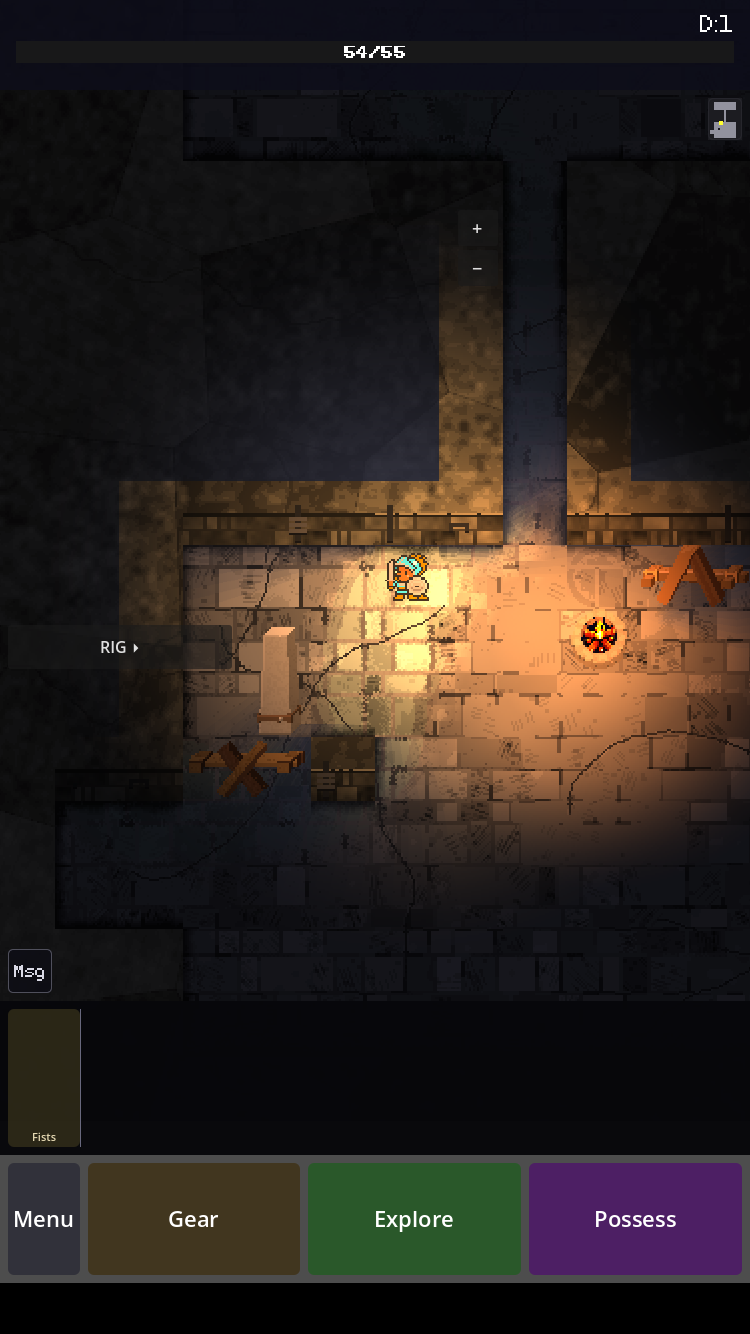
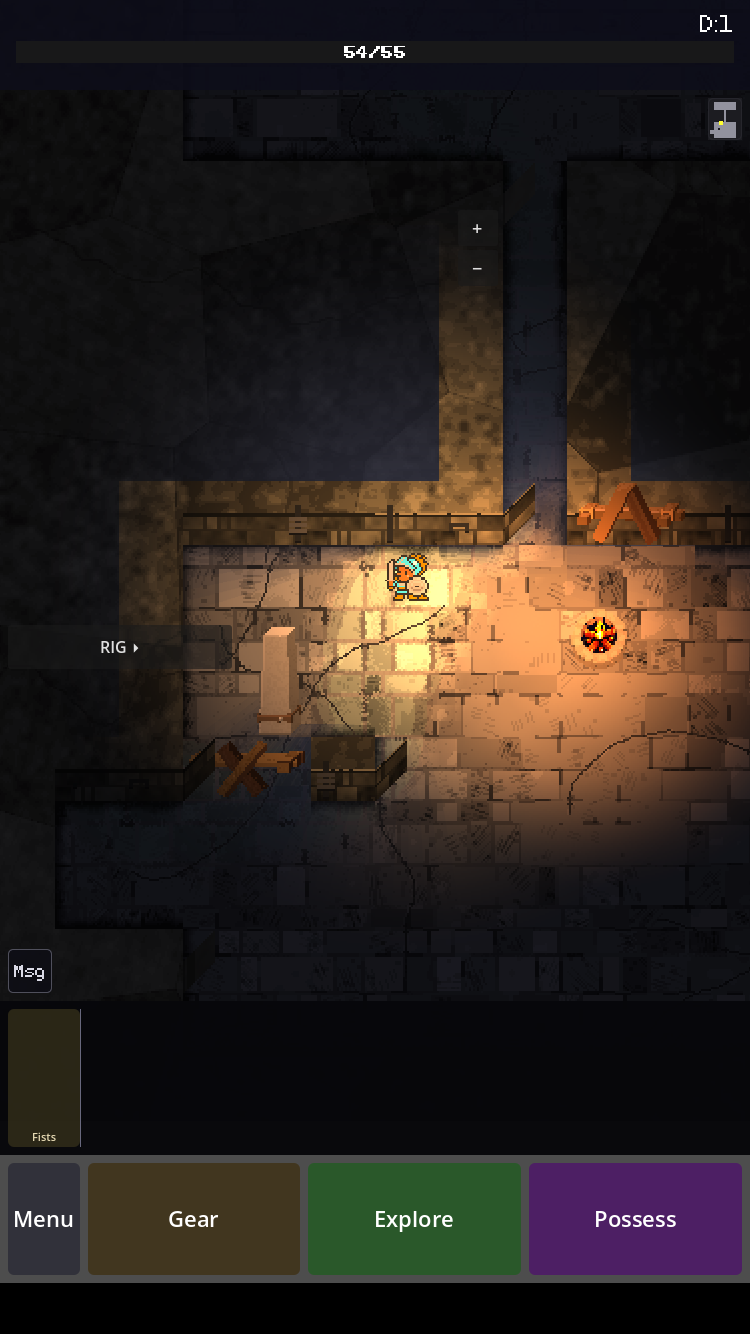
art(#211): wall ends, corners and pillars gain the east face at ½ depth — §3.2 on the walls' ends
A wall cell with floor to its east that is not a N-S run draws the cabinet parallelogram off
its reveal's right edge (16 right, 16 up on a 32 cell), sampled column by column from its own
face so the courses recede, at 0.75 with a 1px arris seam. Sorted at +5 — at +1 the east floor
cell's overlay children hid it. Runs stay two-plane. 5 in the props room; the corridor mouth's
jamb and the pillar are the two anyone will see.

Claude-Session: https://claude.ai/code/session_01YQxwYgREJS6hS4uVev2K1W

Changed region(s): [[0.6747, 0.3381, 1.0, 0.4918], [0.4907, 0.5532, 0.552, 0.6147], [0.2453, 0.5532, 0.3067, 0.584]]

diff --git a/src/Presentation/Map/Tier1BoundaryWall.cs b/src/Presentation/Map/Tier1BoundaryWall.cs
@@ -191,6 +191,7 @@ public static class Tier1BoundaryWall
     private const string BindNode = "Tier1Binding";
     private const string FaceNode = "Tier1Face";
     private const string CapBandNode = "Tier1CapBand";   // #212: the cap re-laid over an against-wall prop
+    private const string EastFaceNode = "Tier1EastFace"; // #211: the wall end's east face (§3.2)
 
     /// <summary>
     /// Does this overlay child cover EXACTLY its parent cell, and nothing of the cell next door?
@@ -225,7 +226,7 @@ public static class Tier1BoundaryWall
     /// <summary>Drop any overlay this class put on a cell, so a re-lay never stacks two.</summary>
     private static void ClearOverlays(Sprite2D s)
     {
-        foreach (var n in new[] { FaceNode, BindNode, CapBandNode })
+        foreach (var n in new[] { FaceNode, BindNode, CapBandNode, EastFaceNode })
         {
             var old = s.GetNodeOrNull<Sprite2D>(n);
             if (old != null) { s.RemoveChild(old); old.QueueFree(); }
@@ -377,6 +378,7 @@ public static class Tier1BoundaryWall
         int face = 0, top = 0, voidCells = 0, missing = 0, faceSuppressed = 0;
         int firstSurface = 0, occludedMass = 0;   // the light-mask split, reported
         int capBands = 0;                          // #212: cap bands re-laid over against-wall props
+        int eastFaces = 0;                         // #211: east faces on wall ends, corners, pillars
         int bound = 0, capLaid = 0, capVoid = 0;
         var ageHist = new int[System.Math.Max(1, 8)];
         var ageMap = new Dictionary<(int X, int Y), int>();
@@ -654,6 +656,63 @@ public static class Tier1BoundaryWall
                     }
                 }
 
+                // ── #211: A WALL END, CORNER OR PILLAR GAINS THE EAST FACE AT ½ DEPTH (§3.2) ──
+                //
+                // RULED with the object projection (Rafe, 2026-09-12): continuous runs stay
+                // two-plane; where a wall ENDS it becomes an object in the room's terms and must
+                // agree with the objects beside it — a right/east face receding at 45° at ½ depth.
+                // The cell qualifies when floor lies to its EAST and it is not a north-south run
+                // (north and south both wall): the east end of an E-W run, a corner, a pillar,
+                // and the corridor mouth's jamb (the first wall end in every room — r002's seat
+                // asked for exactly this: "the wall face band is simply cut where the corridor
+                // passes through it").
+                //
+                // Geometry, in native px on a 32 cell whose face is the lower 16 rows: the block
+                // is one cell deep in plan, so the receding run is ½ x 32 = 16 right and 16 up.
+                // The parallelogram hangs off the reveal's right edge: (32,32)-(32,16)-(48,0)-(48,16)
+                // — its top-right corner meets the cap's back edge, its bottom-left the face's
+                // foot. Each output column samples one column of the cell's OWN face, so the
+                // courses recede diagonally rather than run flat — a side, not a stretched front.
+                // Value 0.75 of the face and a 1px seam at the arris: the side separates from the
+                // front by the seam where they meet (§12.1 form), the ratio matching the ½-depth
+                // sides the landed §3.2 props carry.
+                bool eastOpen = map.InBounds(x + 1, y) && !map.IsWallTile(x + 1, y);
+                bool nsRun = map.InBounds(x, y - 1) && map.IsWallTile(x, y - 1)
+                          && map.InBounds(x, y + 1) && map.IsWallTile(x, y + 1);
+                if (eastOpen && !nsRun && !isVoid && tex != null)
+                {
+                    var src = tex.GetImage();
+                    int tw = src.GetWidth(), th = src.GetHeight();
+                    int half = th / 2, run = tw / 2;
+                    var side = Image.CreateEmpty(run, th, false, Image.Format.Rgba8);
+                    for (int u = 0; u < run; u++)
+                    {
+                        for (int v = 0; v < th; v++)
+                        {
+                            int lo = half - u, hi = th - u;          // the strip slides up 1px per column
+                            if (v < lo || v >= hi) continue;
+                            int sy = half + (v - lo);                // the face's rows, top to bottom
+                            int sx = Mathf.Min(tw - 1, tw - run + u);// the face's right half, one column each
+                            var c = src.GetPixel(sx, Mathf.Clamp(sy, 0, th - 1));
+                            if (c.A <= 0.01f) c = src.GetPixel(sx, th - 1);
+                            float k = u == 0 ? 0.5f : 0.75f;         // the arris seam, then the side
+                            side.SetPixel(u, v, new Color(c.R * k, c.G * k, c.B * k, 1f));
+                        }
+                    }
+                    var ef = new Sprite2D
+                    {
+                        Name = EastFaceNode, Texture = ImageTexture.CreateFromImage(side),
+                        Centered = s.Centered, Position = new Vector2(tw, 0),
+                        TextureFilter = CanvasItem.TextureFilterEnum.Nearest,
+                        // +5, like a wall-top prop: the parallelogram hangs over the EAST floor
+                        // cell, whose overlay children reach +4 and are added after this cell, so
+                        // at +1 it drew underneath them and was not in the frame at all.
+                        ZIndex = 5,
+                    };
+                    s.AddChild(ef);
+                    eastFaces++;
+                }
+
                 // ── #212: THE CAP BAND OVER AN AGAINST-WALL PROP ─────────────────────────────
                 // The prop's base is on this cell's south edge (DungeonRenderer shifted it there)
                 // and it draws over the face. The top surface must stay in front of the prop's
@@ -729,7 +788,7 @@ public static class Tier1BoundaryWall
              + $"edge_check={cfg.EdgeCheck.Count}/OK bindings={bound}({kinds}) "
              + $"cap={capLaid}+{capVoid}void "
              + $"lightmask(first_surface={firstSurface},occluded_mass={occludedMass}) "
-             + $"cap_bands_over_props={capBands} "
+             + $"cap_bands_over_props={capBands} east_faces={eastFaces} "
              + $"age0..3={ages} traffic=spine:{tf.SpineLength:F0}/routes:{tf.Routes} "
              + $"manifest={manifestResPath}";
     }

diff --git a/RUN-REPORT.md b/RUN-REPORT.md
@@ -77,3 +77,17 @@ picture; the critic runs once, last, on the frozen tree.
 - Not done, named: where a prop's base sits in a cell that is NOT against a wall stays at the
   §12.2 render anchor (4 px above the cell's south edge); a base-line rule for open floor is
   #212's second half and would need a walk.
+
+### 3. #211 wall ends, corners, pillars — DONE
+- **Where:** a wall cell with floor to its east that is not a north–south run (north and south
+  both wall). That is the east end of an E–W run, a corner, a pillar, and the corridor mouth's
+  jamb — the "wall face band simply cut where the corridor passes through" that r002's seat
+  flagged. Continuous runs stay two-plane (§3 walls). 5 east faces in the props room.
+- **Geometry (§3.2, ½ per axis):** the block is a cell deep, so the run is 16 native right and
+  16 up; the parallelogram hangs off the reveal's right edge, top-right corner on the cap's back
+  edge, bottom-left on the face's foot. Each column samples one column of the cell's OWN face, so
+  the courses recede diagonally — a side, not a stretched front. Value 0.75 of the face, a 1-px
+  seam at the arris (§12.1 form), matching the ½-depth sides the landed props carry.
+- Sorted at +5 (a wall-top prop's slot): at +1 it drew under the east floor cell's overlay
+  children and was not in the frame at all — found by looking, not by the counter.
+- `Tier1BoundaryWall` (`Tier1EastFace`, reported as `east_faces=N`).
